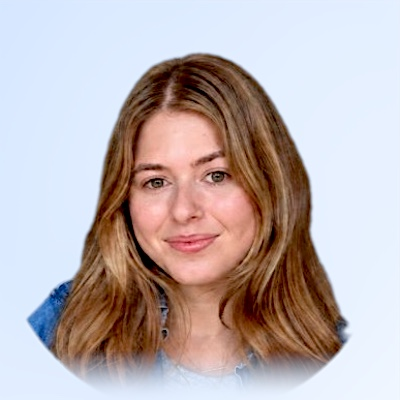
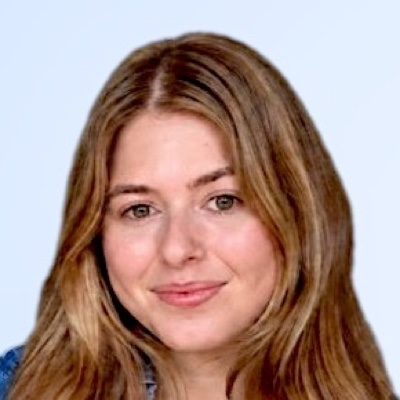
Tamara's photo: crop out the faded bottom edge

diff --git a/index.html b/index.html
@@ -168,7 +168,7 @@
         <figure>
           <p class="eyebrow">N2T Spotlight</p>
           <blockquote>“I didn't get here because I had a traditional technical background. I got here by combining clinical knowledge with curiosity.”</blockquote>
-          <figcaption><img class="quote-face" src="assets/tamara.jpg?v=202610020932" alt="" width="300" height="300"><span><b>Tamara</b>, bedside nurse turned Clinical Data Analyst at Droxi AI</span></figcaption>
+          <figcaption><img class="quote-face" src="assets/tamara.jpg?v=20261005b" alt="" width="300" height="300"><span><b>Tamara</b>, bedside nurse turned Clinical Data Analyst at Droxi AI</span></figcaption>
           <a class="card-link" href="spotlight.html#tamara">Read her story <svg class="ico-sm"><use href="#i-arrow"/></svg></a>
         </figure>
       </div>

diff --git a/spotlight.html b/spotlight.html
@@ -116,7 +116,7 @@
             <summary>
               <p class="qcard-quote">I didn't get here because I had a traditional technical background. I got here by combining clinical knowledge with curiosity.</p>
               <div class="qcard-who">
-                <img src="assets/tamara.jpg?v=202610020932" alt="Tamara" width="400" height="400">
+                <img src="assets/tamara.jpg?v=20261005b" alt="Tamara" width="400" height="400">
                 <div><b>Tamara</b><span>Bedside nurse → Clinical Data Analyst, Droxi AI</span></div>
               </div>
               <span class="card-link qcard-toggle"><span class="t-open">Read her story</span><span class="t-close">Close</span> <svg class="ico-sm"><use href="#i-arrow"/></svg></span>
